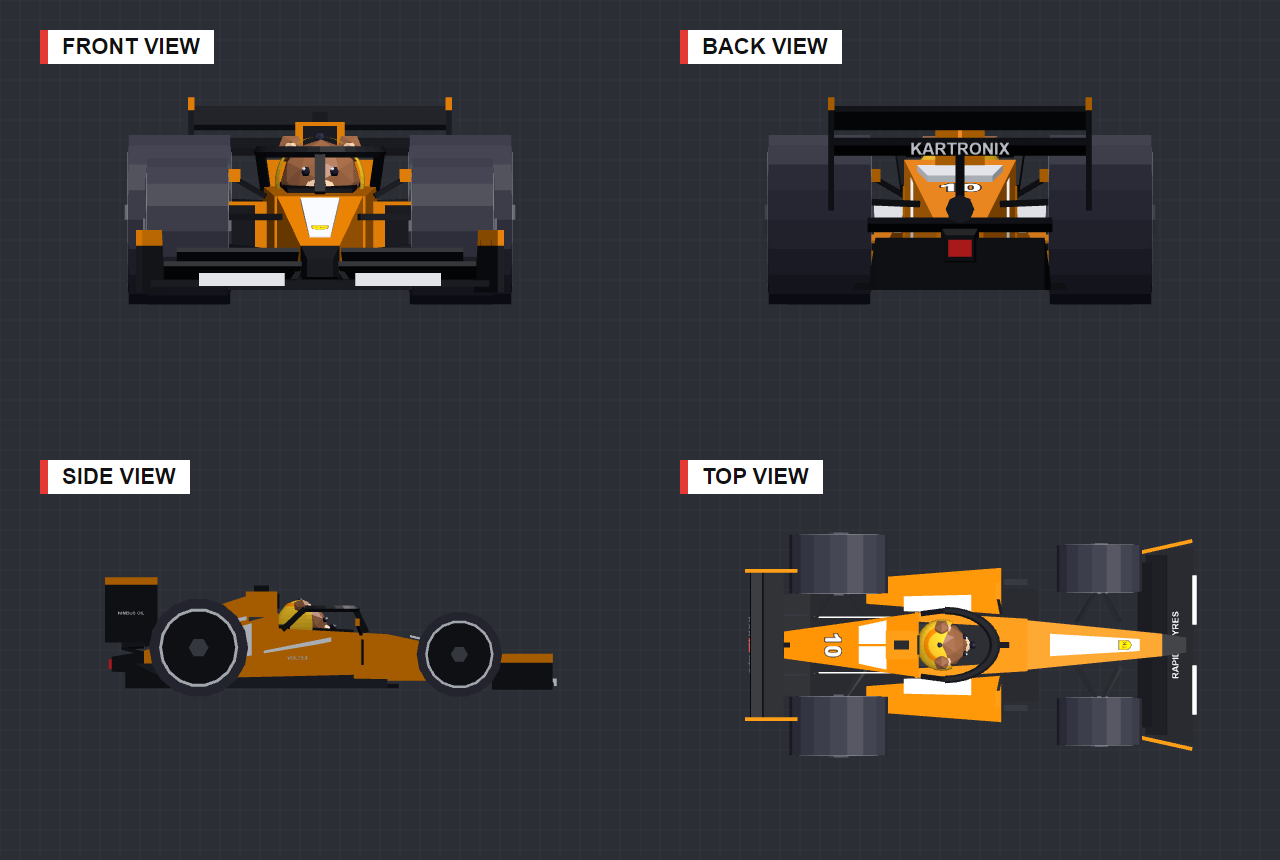
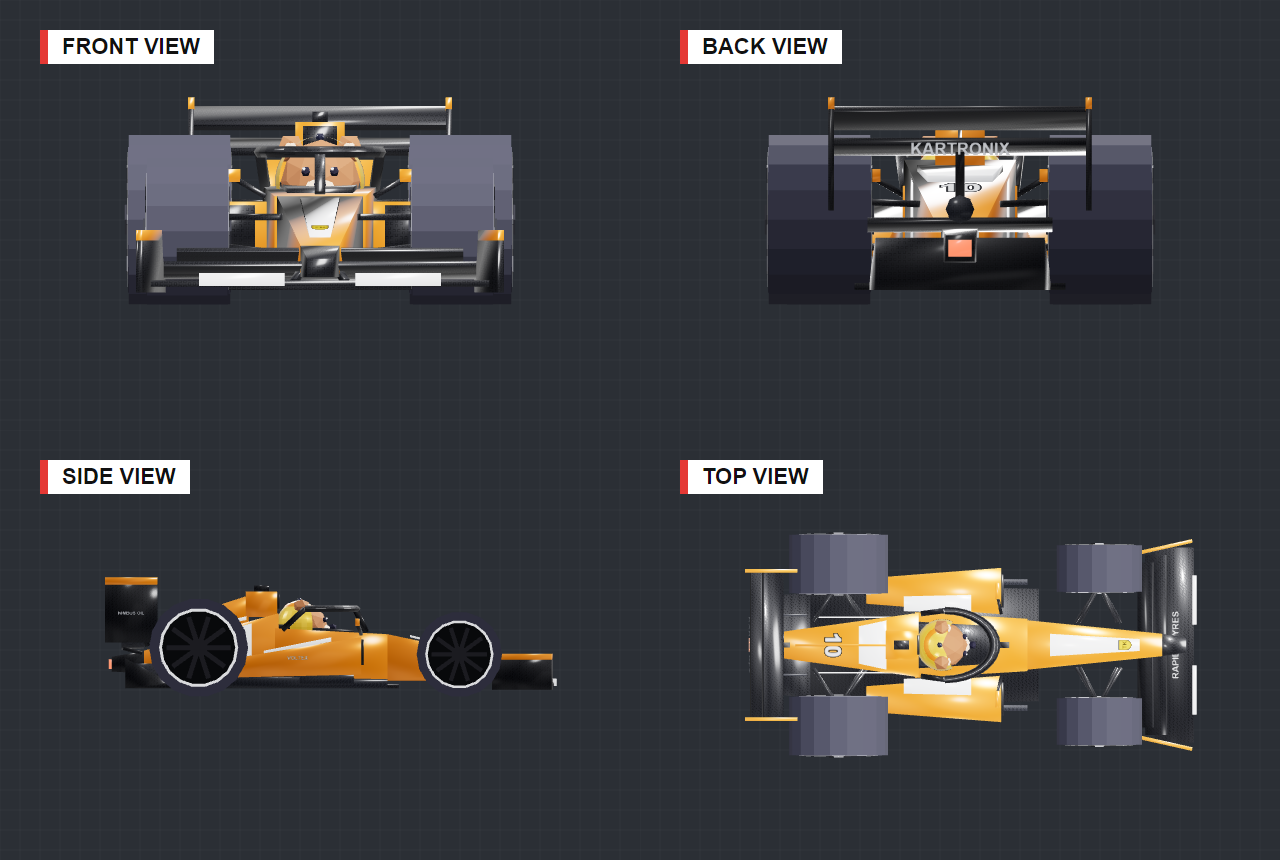
Shinier, more realistic car: per-part PBR finishes (clear-coat metallic paint, carbon weave, metal rims, rubber), sweeping reflections (D47)

diff --git a/host/src/art/car.ts b/host/src/art/car.ts
@@ -43,6 +43,111 @@ export const CAR_WORLD = {
 const BLACK = 0x1c1d22;
 const CARBON = 0x2a2c33;
 const TYRE = 0x3a3a46;
+const RIM = 0x2e3036;
+const NUT = 0x55565e;
+const LIGHT = 0xff2a2a;
+
+/**
+ * Surface finish per vertex (D47): roughness, metalness, clear-coat, and w = glow (> 0) or carbon weave (-1).
+ * One material and one draw call per car; the shader in materials.ts reads this attribute.
+ */
+export type Finish = readonly [number, number, number, number];
+export const FIN = {
+  /** Metallic-flake paint under a glossy clear-coat. */
+  paint: [0.2, 0.45, 1, 0],
+  /** White panels: pearl, less metal so they stay white. */
+  pearl: [0.16, 0.08, 1, 0],
+  /** Carbon fibre: woven, lacquered. */
+  carbon: [0.32, 0.25, 0.85, -1],
+  /** Rubber: satin, scuffed. */
+  rubber: [0.82, 0, 0, 0],
+  /** Sidewall lettering band. */
+  band: [0.75, 0, 0, 0],
+  /** Machined metal (rims, wheel nuts). */
+  metal: [0.28, 0.95, 0.3, 0],
+  /** Rain light: glows. */
+  light: [0.3, 0, 1, 2.2],
+  /** Fur and faces: soft. */
+  fur: [0.78, 0, 0, 0],
+} as const satisfies Record<string, Finish>;
+
+/** Merge groups of parts, each with its own finish, into one geometry with an `aPbr` attribute. */
+export function mergePbr(groups: { parts: Part[]; fin: Finish }[]): THREE.BufferGeometry {
+  const merged = groups.filter((g) => g.parts.length).map((g) => ({ geo: merge(g.parts), fin: g.fin }));
+  let total = 0;
+  for (const m of merged) total += m.geo.attributes.position!.count;
+  const pos = new Float32Array(total * 3),
+    nrm = new Float32Array(total * 3),
+    col = new Float32Array(total * 3),
+    pbr = new Float32Array(total * 4);
+  let o = 0;
+  for (const { geo, fin } of merged) {
+    const n = geo.attributes.position!.count;
+    pos.set(geo.attributes.position!.array as Float32Array, o * 3);
+    // glossy finishes: half-smoothed normals, so sky reflections sweep across a panel instead of filling it flat
+    const nr = geo.attributes.normal!.array as Float32Array;
+    if (fin[2] >= 0.85) {
+      const P = geo.attributes.position!.array as Float32Array,
+        acc = new Map<string, [number, number, number]>();
+      const key = (i: number): string =>
+        `${Math.round(P[i * 3]! * 200)},${Math.round(P[i * 3 + 1]! * 200)},${Math.round(P[i * 3 + 2]! * 200)}`;
+      for (let i = 0; i < n; i++) {
+        const k = key(i),
+          a = acc.get(k) ?? [0, 0, 0];
+        a[0] += nr[i * 3]!;
+        a[1] += nr[i * 3 + 1]!;
+        a[2] += nr[i * 3 + 2]!;
+        acc.set(k, a);
+      }
+      for (let i = 0; i < n; i++) {
+        const a = acc.get(key(i))!,
+          l = Math.hypot(a[0], a[1], a[2]) || 1;
+        let x = nr[i * 3]! + a[0] / l,
+          y = nr[i * 3 + 1]! + a[1] / l,
+          z = nr[i * 3 + 2]! + a[2] / l;
+        const m = Math.hypot(x, y, z) || 1;
+        x /= m;
+        y /= m;
+        z /= m;
+        nrm.set([x, y, z], (o + i) * 3);
+      }
+    } else nrm.set(nr, o * 3);
+    col.set(geo.attributes.color!.array as Float32Array, o * 3);
+    for (let i = 0; i < n; i++) pbr.set(fin, (o + i) * 4);
+    o += n;
+    geo.dispose();
+  }
+  const out = new THREE.BufferGeometry();
+  out.setAttribute('position', new THREE.BufferAttribute(pos, 3));
+  out.setAttribute('normal', new THREE.BufferAttribute(nrm, 3));
+  out.setAttribute('color', new THREE.BufferAttribute(col, 3));
+  out.setAttribute('aPbr', new THREE.BufferAttribute(pbr, 4));
+  return out;
+}
+
+/** Split car parts by their colour into finishes. */
+function byFinish(parts: Part[], paint: number): { parts: Part[]; fin: Finish }[] {
+  const g = {
+    paint: [] as Part[],
+    pearl: [] as Part[],
+    carbon: [] as Part[],
+    rubber: [] as Part[],
+    band: [] as Part[],
+    metal: [] as Part[],
+    light: [] as Part[],
+  };
+  for (const p of parts) {
+    const c = p.color;
+    if (c === BLACK || c === CARBON) g.carbon.push(p);
+    else if (c === TYRE) g.rubber.push(p);
+    else if (c === RIM || c === NUT) g.metal.push(p);
+    else if (c === LIGHT) g.light.push(p);
+    else if (c === 0xf5f5f5) g.band.push(p);
+    else if (c === WHITE && c !== paint) g.pearl.push(p);
+    else g.paint.push(p);
+  }
+  return (Object.keys(g) as (keyof typeof g)[]).map((k) => ({ parts: g[k], fin: FIN[k] }));
+}
 
 /**
  * A box whose back end (z0) and front end (z1) have their own width and bottom/top heights: the tapering body
@@ -171,7 +276,7 @@ export function buildCar(paint: number): THREE.BufferGeometry {
   add(P_(box(1.42, 0.05, 0.26), BLACK, 0, 0.62, -2.5, 0.25));
   // crash structure and rain light
   add(P_(taper(-2.78, 0.22, 0.34, 0.54, -2.3, 0.3, 0.32, 0.62), BLACK));
-  add(P_(box(0.18, 0.13, 0.04), 0xff2a2a, 0, 0.44, -2.8));
+  add(P_(box(0.18, 0.13, 0.04), LIGHT, 0, 0.44, -2.8));
 
   // suspension: wishbones from the chassis to the wheel uprights, plus push/pull rods
   for (const s of [1, -1]) {
@@ -192,7 +297,7 @@ export function buildCar(paint: number): THREE.BufferGeometry {
   }
   // seat back and shoulders inside the cockpit
   add(P_(box(0.56, 0.3, 0.3), CARBON, 0, 0.82, -0.45));
-  return merge(parts);
+  return mergePbr(byFinish(parts, paint));
 }
 
 /** A slick tyre with a coloured sidewall band, a dark rim and a centre lock nut, axis along x. */
@@ -202,8 +307,10 @@ function wheel(r: number, w: number, band: number): Part[] {
     P_(cyl(r, r, w, 18), TYRE, 0, 0, 0, 0, 0, R),
     P_(cyl(r * 0.86, r * 0.86, w + 0.012, 18), TYRE, 0, 0, 0, 0, 0, R),
     P_(cyl(r * 0.8, r * 0.8, w + 0.016, 18), band, 0, 0, 0, 0, 0, R),
-    P_(cyl(r * 0.74, r * 0.74, w + 0.02, 18), BLACK, 0, 0, 0, 0, 0, R),
-    P_(cyl(r * 0.2, r * 0.2, w + 0.06, 6), 0x55565e, 0, 0, 0, 0, 0, R),
+    P_(cyl(r * 0.74, r * 0.74, w + 0.02, 18), RIM, 0, 0, 0, 0, 0, R),
+    // five spokes and the centre lock nut, machined metal
+    ...[0, 1, 2, 3, 4].map((k) => P_(box(w + 0.03, r * 0.1, r * 1.3), NUT, 0, 0, 0, (k * Math.PI * 2) / 5, 0, 0)),
+    P_(cyl(r * 0.2, r * 0.2, w + 0.06, 6), NUT, 0, 0, 0, 0, 0, R),
   ];
 }
 
@@ -216,7 +323,10 @@ export function buildWheels(): { rear: THREE.BufferGeometry; front: THREE.Buffer
       p.m.premultiply(new THREE.Matrix4().makeTranslation(s * CAR.rearX, 0, 0));
       rear.push(p);
     }
-  return { rear: merge(rear), front: merge(wheel(CAR.frontR, 0.62, band)) };
+  return {
+    rear: mergePbr(byFinish(rear, -1)),
+    front: mergePbr(byFinish(wheel(CAR.frontR, 0.62, band), -1)),
+  };
 }
 
 /**

diff --git a/host/src/art/kart.ts b/host/src/art/kart.ts
@@ -8,7 +8,7 @@ import * as THREE from 'three';
 import { DEFAULT_HANDLING, RESCUE_T, SPIN_T, clamp, wrapA, type Character, type Kart } from '@tk/shared';
 import { P_, merge, jitter, canvasTex, box, cyl, ico, cone, octa, hexStr, type Part } from './geo';
 import { INK, DARK, WHITE, kartPaint } from './palette';
-import { CAR, CAR_SCALE, buildCar, buildDecals, buildWheels, helmetParts } from './car';
+import { CAR, CAR_SCALE, FIN, buildCar, buildDecals, buildWheels, helmetParts, mergePbr } from './car';
 import { holoShell } from './holo';
 import type { Materials } from './materials';
 
@@ -134,7 +134,10 @@ export class ProceduralKartProvider implements KartAssetProvider {
   build(ch: Character, paint: number): KartModel {
     // D38/D44: no cartoon outline hulls (they would also swell the thin wings)
     const chassis = buildCar(paint),
-      head = merge([...headParts(ch), ...(ch.kind === 'robot' ? [] : helmetParts(ch.accent, paint))]);
+      head = mergePbr([
+        { parts: headParts(ch), fin: ch.kind === 'robot' ? FIN.metal : FIN.fur },
+        { parts: ch.kind === 'robot' ? [] : helmetParts(ch.accent, paint), fin: FIN.paint },
+      ]);
     const m: KartModel = { chassis, head, chassisOutline: null, headOutline: null };
     this.built.push(chassis, head);
     return m;
@@ -272,7 +275,7 @@ export class KartView {
   private readonly drone: THREE.Mesh;
   private readonly shadow: THREE.Mesh;
   private readonly decals: THREE.Mesh;
-  private readonly decalMat: THREE.MeshLambertMaterial;
+  private readonly decalMat: THREE.MeshPhysicalMaterial;
   /** Interpolated position (render frame). */
   ix = 0;
   iy = 0;
@@ -308,7 +311,7 @@ export class KartView {
     this.root.scale.setScalar(CAR_SCALE);
     this.body.rotation.order = 'YXZ';
     this.root.add(this.body);
-    const chassis = new THREE.Mesh(model.chassis, M.kart);
+    const chassis = new THREE.Mesh(model.chassis, M.car);
     chassis.castShadow = true;
     this.body.add(chassis);
     if (model.chassisOutline) this.body.add(new THREE.Mesh(model.chassisOutline, M.line));
@@ -316,11 +319,11 @@ export class KartView {
     this.head.position.copy(CAR.head).add(new THREE.Vector3(0, -0.2, 0));
     this.head.scale.setScalar(0.5);
     this.body.add(this.head);
-    const hm = new THREE.Mesh(model.head, M.kart);
+    const hm = new THREE.Mesh(model.head, M.car);
     hm.castShadow = true;
     this.head.add(hm);
     if (model.headOutline) this.head.add(new THREE.Mesh(model.headOutline, M.line));
-    this.rear = new THREE.Mesh(assets.wheelRear, M.kart);
+    this.rear = new THREE.Mesh(assets.wheelRear, M.car);
     this.rear.position.set(0, CAR.rearR, CAR.rearZ);
     this.rear.castShadow = true;
     this.body.add(this.rear);
@@ -328,7 +331,7 @@ export class KartView {
       const p = new THREE.Group();
       p.position.set(x, CAR.frontR, CAR.frontZ);
       this.body.add(p);
-      const w = new THREE.Mesh(assets.wheelFront, M.kart);
+      const w = new THREE.Mesh(assets.wheelFront, M.car);
       w.castShadow = true;
       p.add(w);
       this.pivots.push(p);
@@ -373,8 +376,11 @@ export class KartView {
     // livery decals: number and fictional sponsors (one atlas per car)
     const number = slot !== null ? slot + 1 : 10 + kartId;
     const dec = buildDecals(number, this.paint);
-    this.decalMat = new THREE.MeshLambertMaterial({
+    this.decalMat = new THREE.MeshPhysicalMaterial({
       map: dec.map,
+      roughness: 0.3,
+      clearcoat: 1,
+      clearcoatRoughness: 0.05,
       transparent: true,
       alphaTest: 0.3,
       polygonOffset: true,

diff --git a/host/src/art/materials.ts b/host/src/art/materials.ts
@@ -8,6 +8,8 @@ import { INK } from './palette';
 
 export interface Materials {
   kart: THREE.MeshPhysicalMaterial;
+  /** D47: the race car: per-vertex finish (aPbr), clear-coat paint, carbon weave, metal, rubber, glow. */
+  car: THREE.MeshPhysicalMaterial;
   prop: THREE.MeshStandardMaterial;
   inst: THREE.MeshStandardMaterial;
   instL: THREE.MeshStandardMaterial;
@@ -25,6 +27,7 @@ export function createMaterials(): Materials {
       clearcoat: 0.9,
       clearcoatRoughness: 0.12,
     }),
+    car: carMaterial(),
     prop: new THREE.MeshStandardMaterial({ vertexColors: true, roughness: 0.72, metalness: 0.02 }),
     inst: new THREE.MeshStandardMaterial({ vertexColors: true, roughness: 0.82, metalness: 0 }),
     instL: new THREE.MeshStandardMaterial({ vertexColors: true, roughness: 0.9, metalness: 0 }),
@@ -37,4 +40,58 @@ export function createMaterials(): Materials {
       for (const mat of Object.values(m)) mat.dispose();
     },
   };
+}
+
+/**
+ * The car shader: MeshPhysicalMaterial whose roughness, metalness, clear-coat and glow come from each vertex's
+ * `aPbr`. Carbon parts get a fine 2 × 2 twill weave in object space (colour and roughness), so they read as
+ * carbon fibre under the lacquer. Reflections come from the sky environment, set as this material's own envMap
+ * (World.build) so its strength is independent of the scene's.
+ */
+function carMaterial(): THREE.MeshPhysicalMaterial {
+  const m = new THREE.MeshPhysicalMaterial({
+    vertexColors: true,
+    roughness: 0.3,
+    metalness: 0.3,
+    clearcoat: 1,
+    clearcoatRoughness: 0.05,
+    envMapIntensity: 1.9,
+  });
+  m.onBeforeCompile = (sh) => {
+    sh.vertexShader = sh.vertexShader
+      .replace('#include <common>', '#include <common>\nattribute vec4 aPbr;\nvarying vec4 vPbr;\nvarying vec3 vObj;')
+      .replace('#include <begin_vertex>', '#include <begin_vertex>\nvPbr = aPbr;\nvObj = position;');
+    sh.fragmentShader = sh.fragmentShader
+      .replace('#include <common>', '#include <common>\nvarying vec4 vPbr;\nvarying vec3 vObj;')
+      .replace(
+        '#include <color_fragment>',
+        `#include <color_fragment>
+        float weave = 0.0;
+        if (vPbr.w < -0.5) {
+          vec2 q = vec2(vObj.x + vObj.z, vObj.y - vObj.z) * 55.0;
+          vec2 c = floor(q);
+          float dir = mod(c.x + c.y, 2.0);
+          vec2 f = fract(q);
+          float thread = dir > 0.5 ? sin(f.x * 3.14159) : sin(f.y * 3.14159);
+          weave = thread;
+          diffuseColor.rgb *= 0.82 + 0.32 * thread;
+        }`,
+      )
+      .replace(
+        '#include <roughnessmap_fragment>',
+        `#include <roughnessmap_fragment>
+        roughnessFactor = vPbr.x * (vPbr.w < -0.5 ? 0.8 + 0.4 * weave : 1.0);`,
+      )
+      .replace('#include <metalnessmap_fragment>', '#include <metalnessmap_fragment>\nmetalnessFactor = vPbr.y;')
+      .replace(
+        '#include <lights_physical_fragment>',
+        '#include <lights_physical_fragment>\nmaterial.clearcoat = vPbr.z;',
+      )
+      .replace(
+        '#include <emissivemap_fragment>',
+        '#include <emissivemap_fragment>\ntotalEmissiveRadiance += diffuseColor.rgb * max(vPbr.w, 0.0);',
+      );
+  };
+  m.customProgramCacheKey = () => 'tk-car';
+  return m;
 }

diff --git a/tools/carview/carview.ts b/tools/carview/carview.ts
@@ -4,6 +4,7 @@
  *   /tools/carview/?slot=0&ci=1
  */
 import * as THREE from 'three';
+import { RoomEnvironment } from 'three/addons/environments/RoomEnvironment.js';
 import { CHARS } from '@tk/shared';
 import { createMaterials } from '../../host/src/art/materials';
 import { KartView, ProceduralKartProvider } from '../../host/src/art/kart';
@@ -29,6 +30,11 @@ sun.position.set(3, 6, 4);
 scene.add(sun);
 
 const M = createMaterials();
+// studio reflections, so the clear-coat and metal finishes show on the sheet
+const pm = new THREE.PMREMGenerator(renderer);
+M.car.envMap = pm.fromScene(new RoomEnvironment(), 0.04).texture;
+M.car.envMapIntensity = 0.55;
+renderer.toneMapping = THREE.ACESFilmicToneMapping;
 const kv = new KartView(0, CHARS[ci]!, slot, 'P1', new ProceduralKartProvider(), M);
 kv.tag.visible = false;
 // no ground shadow disc on the drawing sheet

diff --git a/host/src/renderer.ts b/host/src/renderer.ts
@@ -188,6 +188,8 @@ export class World {
       const th = THEMES[def?.theme ?? 'meadows'];
       this.applyTheme(th);
       const M = (this.M = createMaterials());
+      // D47: the car paint reflects the sky at its own strength (scene.environment would override it)
+      if (this.envRT) M.car.envMap = this.envRT.texture;
       this.trackWorld = buildTrackWorld(s.track, M, 1234, th, def);
       this.scene.add(this.trackWorld.group);
       // natural detail first, so the canyon formations claim their ground before the scattered scenery

diff --git a/docs/DECISIONS.md b/docs/DECISIONS.md
@@ -563,6 +563,21 @@ Track centreline: **1,279 m**. Test driver: AI controller with skill 0.93 (the p
   - **Debug overlay additions** (input rate, latency, physics vectors): to phase 13.
 - **Why**: Section 12.
 
+### D47 · Shinier, more realistic car finish; Sepang in the Grand Prix (2026-11-19, your requests)
+- **Q**: You asked for the car to look more realistic and shiny, and for Sepang Circuit to be part of the Grand Prix.
+- **A**:
+  - **Finishes**: each part of the car has its own physically based finish, still in one draw call per car. The values live in a per-vertex `aPbr` attribute that the car shader reads.
+    - **Paint**: metallic flake under a glossy clear-coat.
+    - **White panels**: pearl.
+    - **Black parts**: lacquered carbon fibre with a fine twill weave.
+    - **Tyres**: satin rubber, with matte sidewall bands.
+    - **Rims**: machined metal, now with five spokes.
+    - **Rain light**: glowing.
+  - **Reflections**: glossy parts use half-smoothed normals, so sky reflections sweep across the panels. The car reflects the sky through its own environment map at 1.9× strength, stronger than the scenery.
+  - **Decals and driver helmets**: clear-coated too.
+  - **Grand Prix**: runs all four tracks in the order Meadows → Canyon → Frosty → Sepang (phase 12).
+- **Why**: Your requests.
+
 ---
 
 ## Gate 0 status
